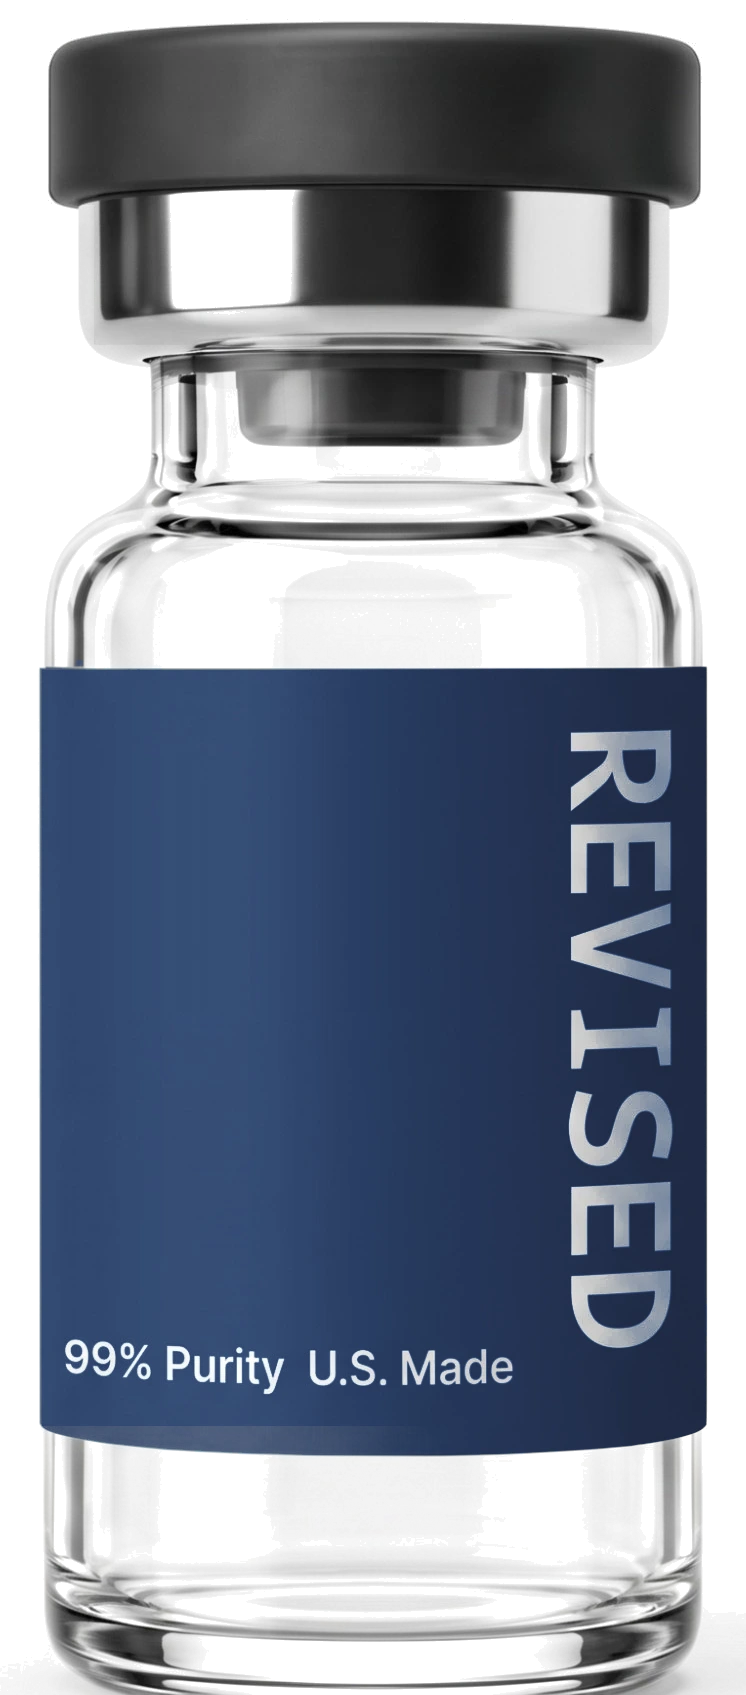
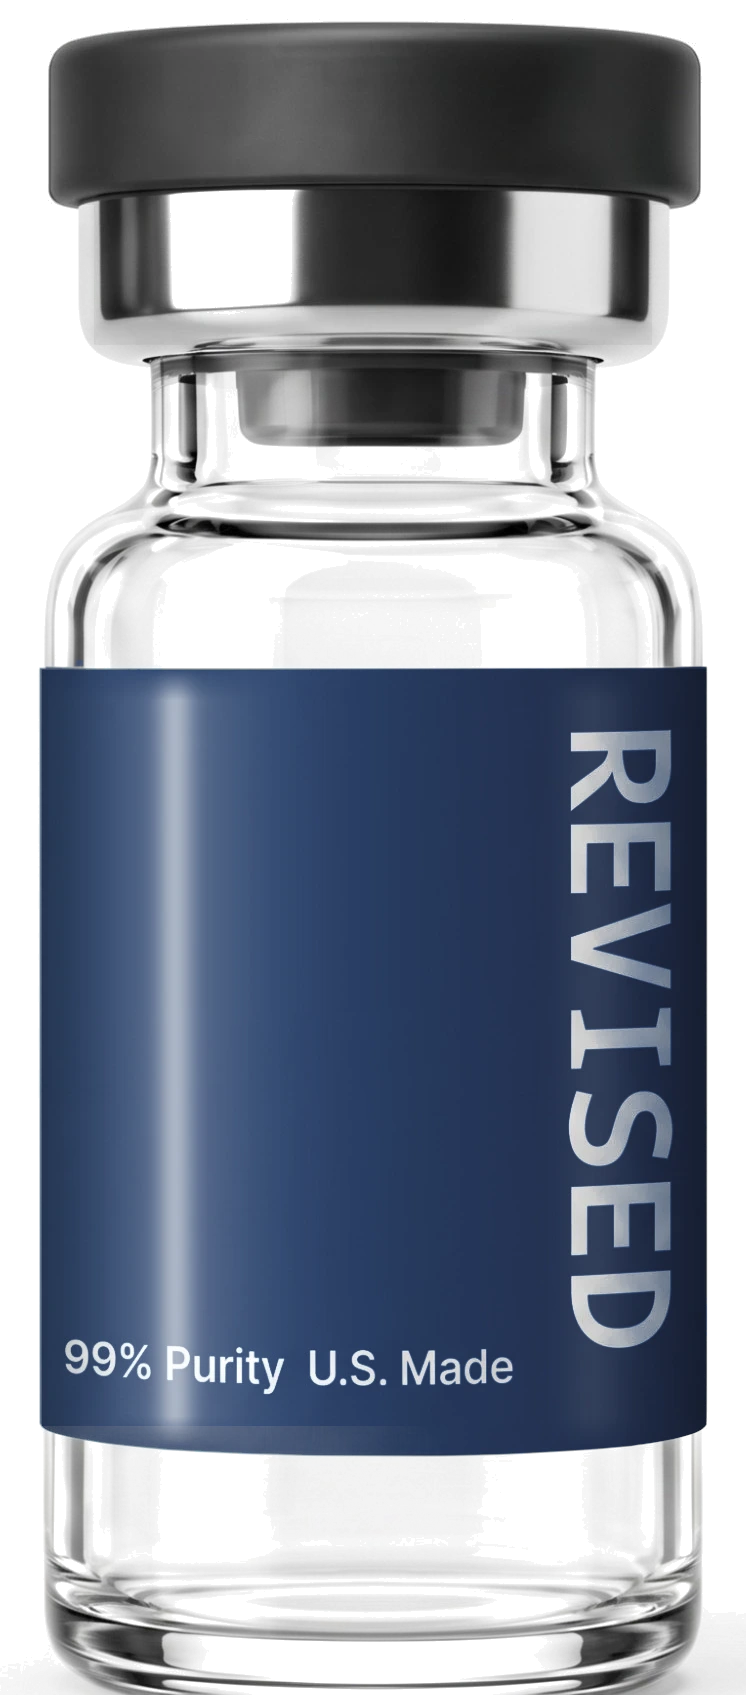
Vials: glossy laminate finish on every label
tint-vial.mjs now adds gloss to the label: a sharp specular streak with
a soft halo on the left, a faint secondary reflection on the right and
darker edges for the cylinder. Adds vial-slate.webp (original color,
gloss only), now the default vial for bundles and supplies; vial.webp
stays the untouched source.

Claude-Session: https://claude.ai/code/session_01PrTRNVC7XRzDvkBfei43zw

Changed region(s): [[0.1542, 0.3988, 0.3083, 0.859], [0.0308, 0.3988, 0.1233, 0.859]]

diff --git a/components/Vial.tsx b/components/Vial.tsx
@@ -1,5 +1,5 @@
 /**
- * Product vial: the studio photo (public/vial/vial.webp — blank label,
+ * Product vial: the studio photo (public/vial/vial-slate.webp — blank label,
  * transparent background) with the product name and size set as live text on
  * the label. One image serves every product, and the label always matches the
  * catalog (including the RUO naming guard) because it is rendered from data,
@@ -11,7 +11,8 @@
  * Text is sized in container-query units (cqw) so it stays locked to the
  * label at every rendered size, from 18px thumbnails to the PDP stage.
  */
-export const VIAL_SRC = "/vial/vial.webp";
+/** Glossy copy of the slate studio photo; vial.webp is the untouched source. */
+export const VIAL_SRC = "/vial/vial-slate.webp";
 /** Category label colors with a pre-tinted photo (scripts/vial/tint-vial.mjs). */
 const TONES = new Set(["repair", "metabolic", "cognitive"]);
 

diff --git a/scripts/vial/README.md b/scripts/vial/README.md
@@ -24,8 +24,10 @@ framing changes, re-measure them and update the label text positions
 
 `public/vial/vial-repair.webp`, `vial-metabolic.webp` and `vial-cognitive.webp`
 are the same photo with the slate label recolored to the category gradients
-used by the printed labels (`scripts/labels`). Rebuild them after changing
-`vial.webp`:
+used by the printed labels (`scripts/labels`); `vial-slate.webp` keeps the
+original color. All four get a glossy laminate finish (specular streak,
+edge shading). The site shows these, never `vial.webp` directly. Rebuild
+them after changing `vial.webp`:
 
 ```bash
 node scripts/vial/tint-vial.mjs
